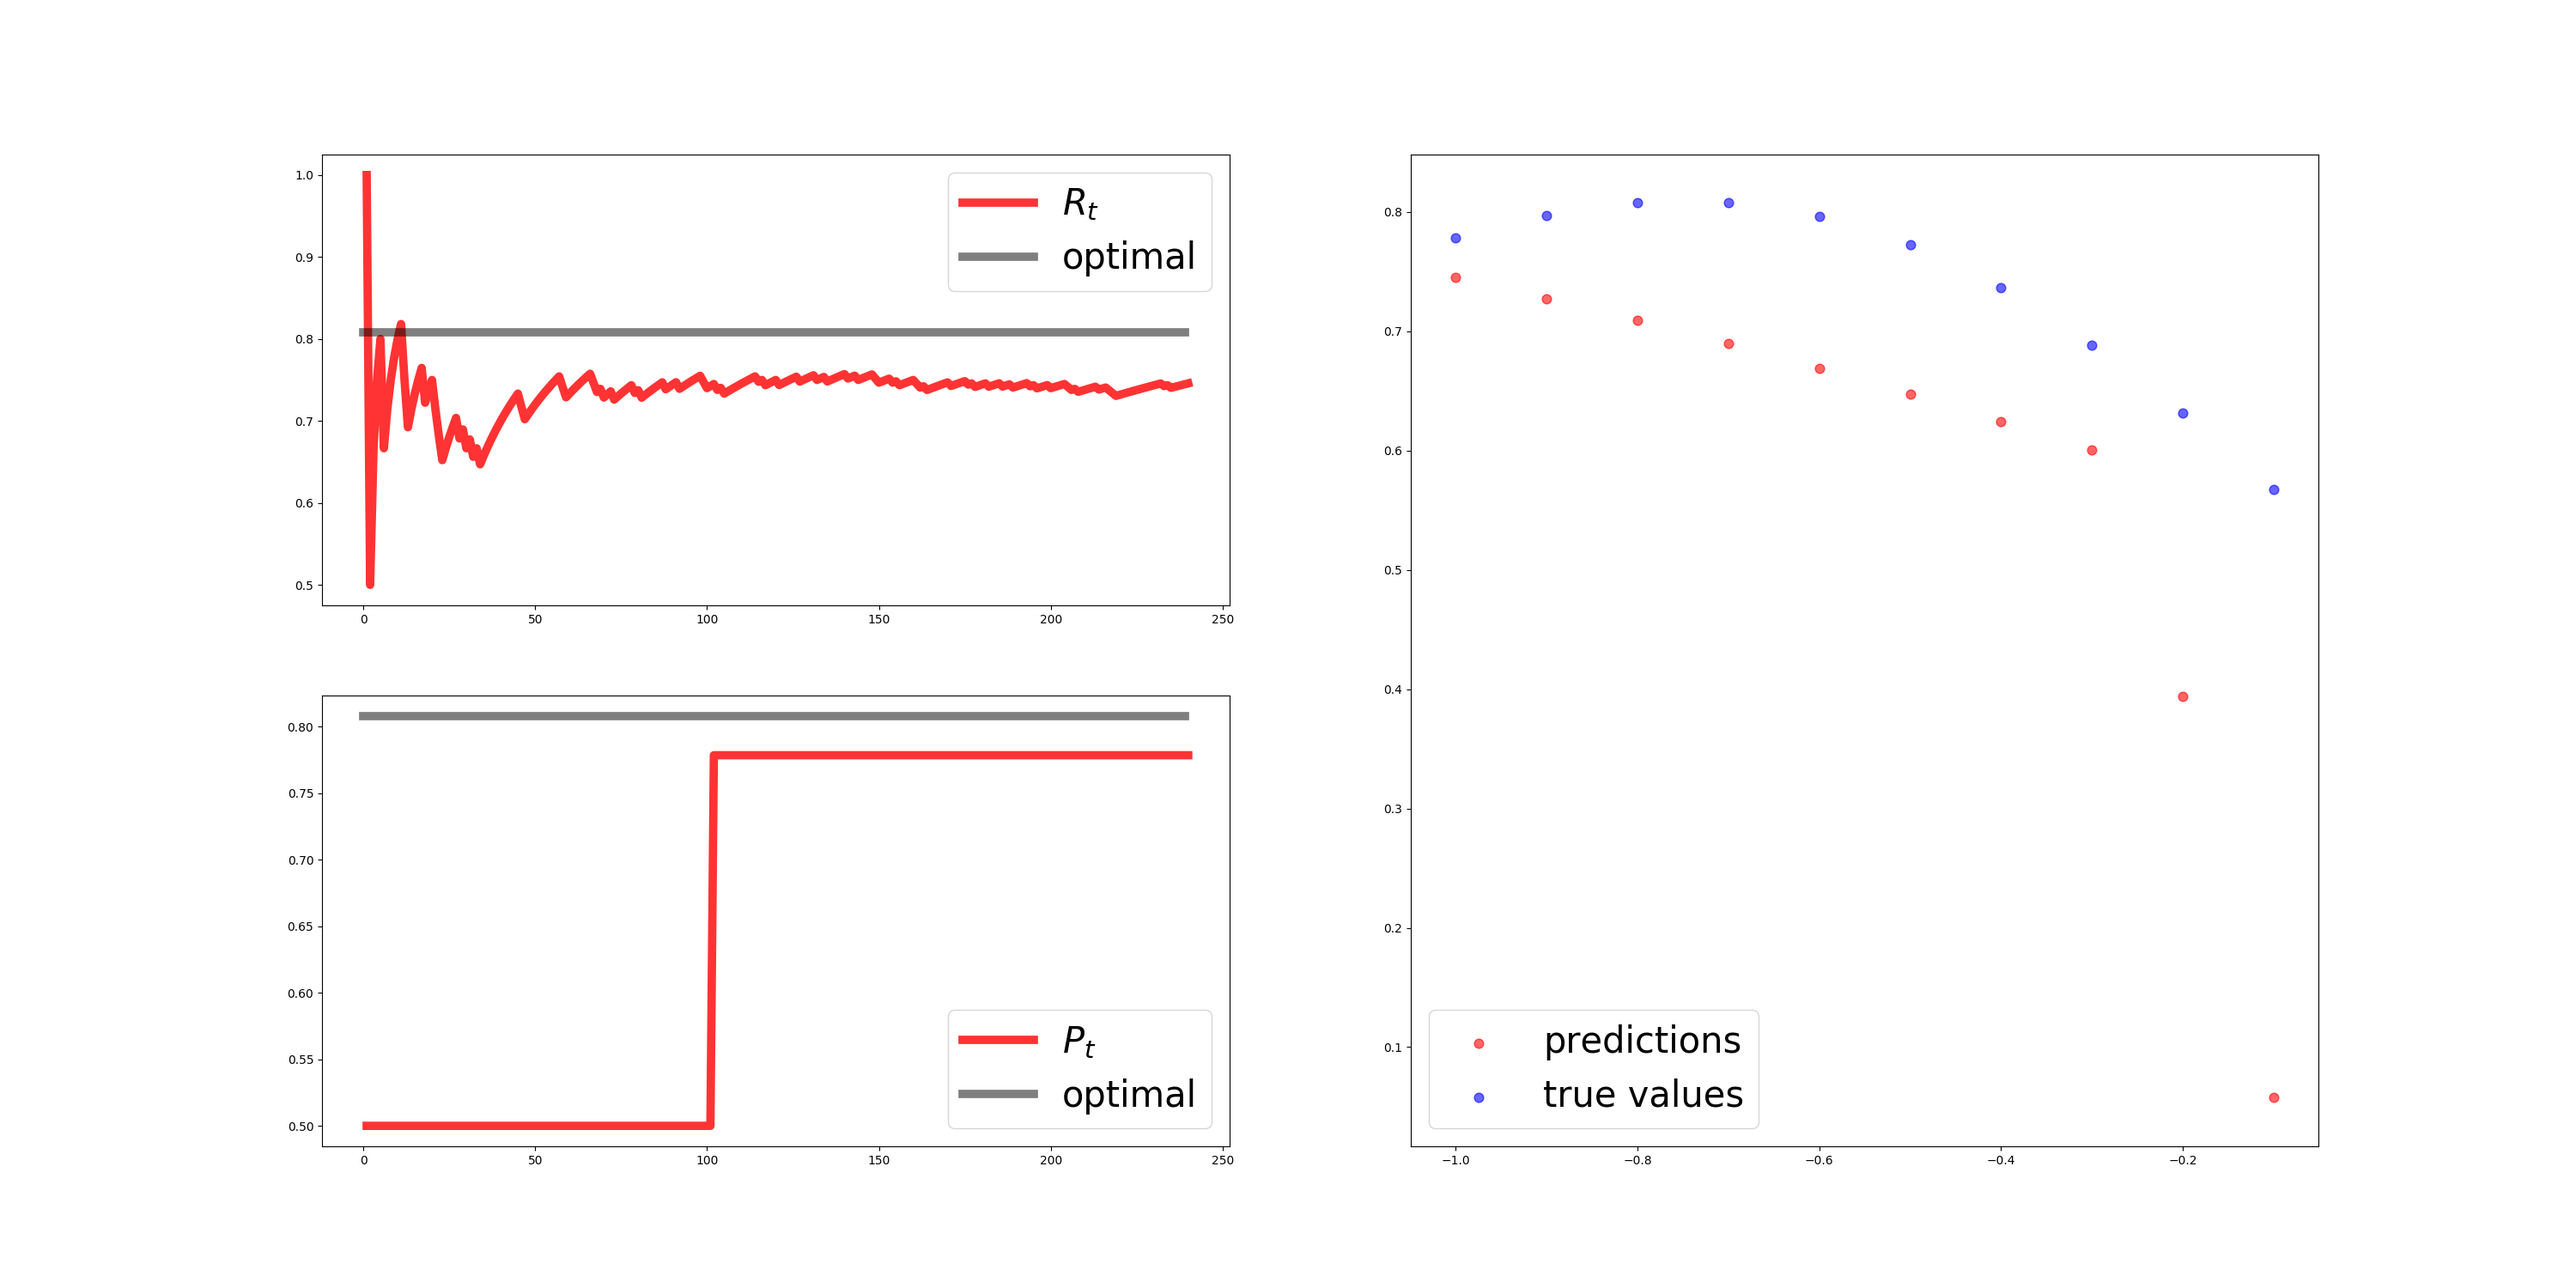
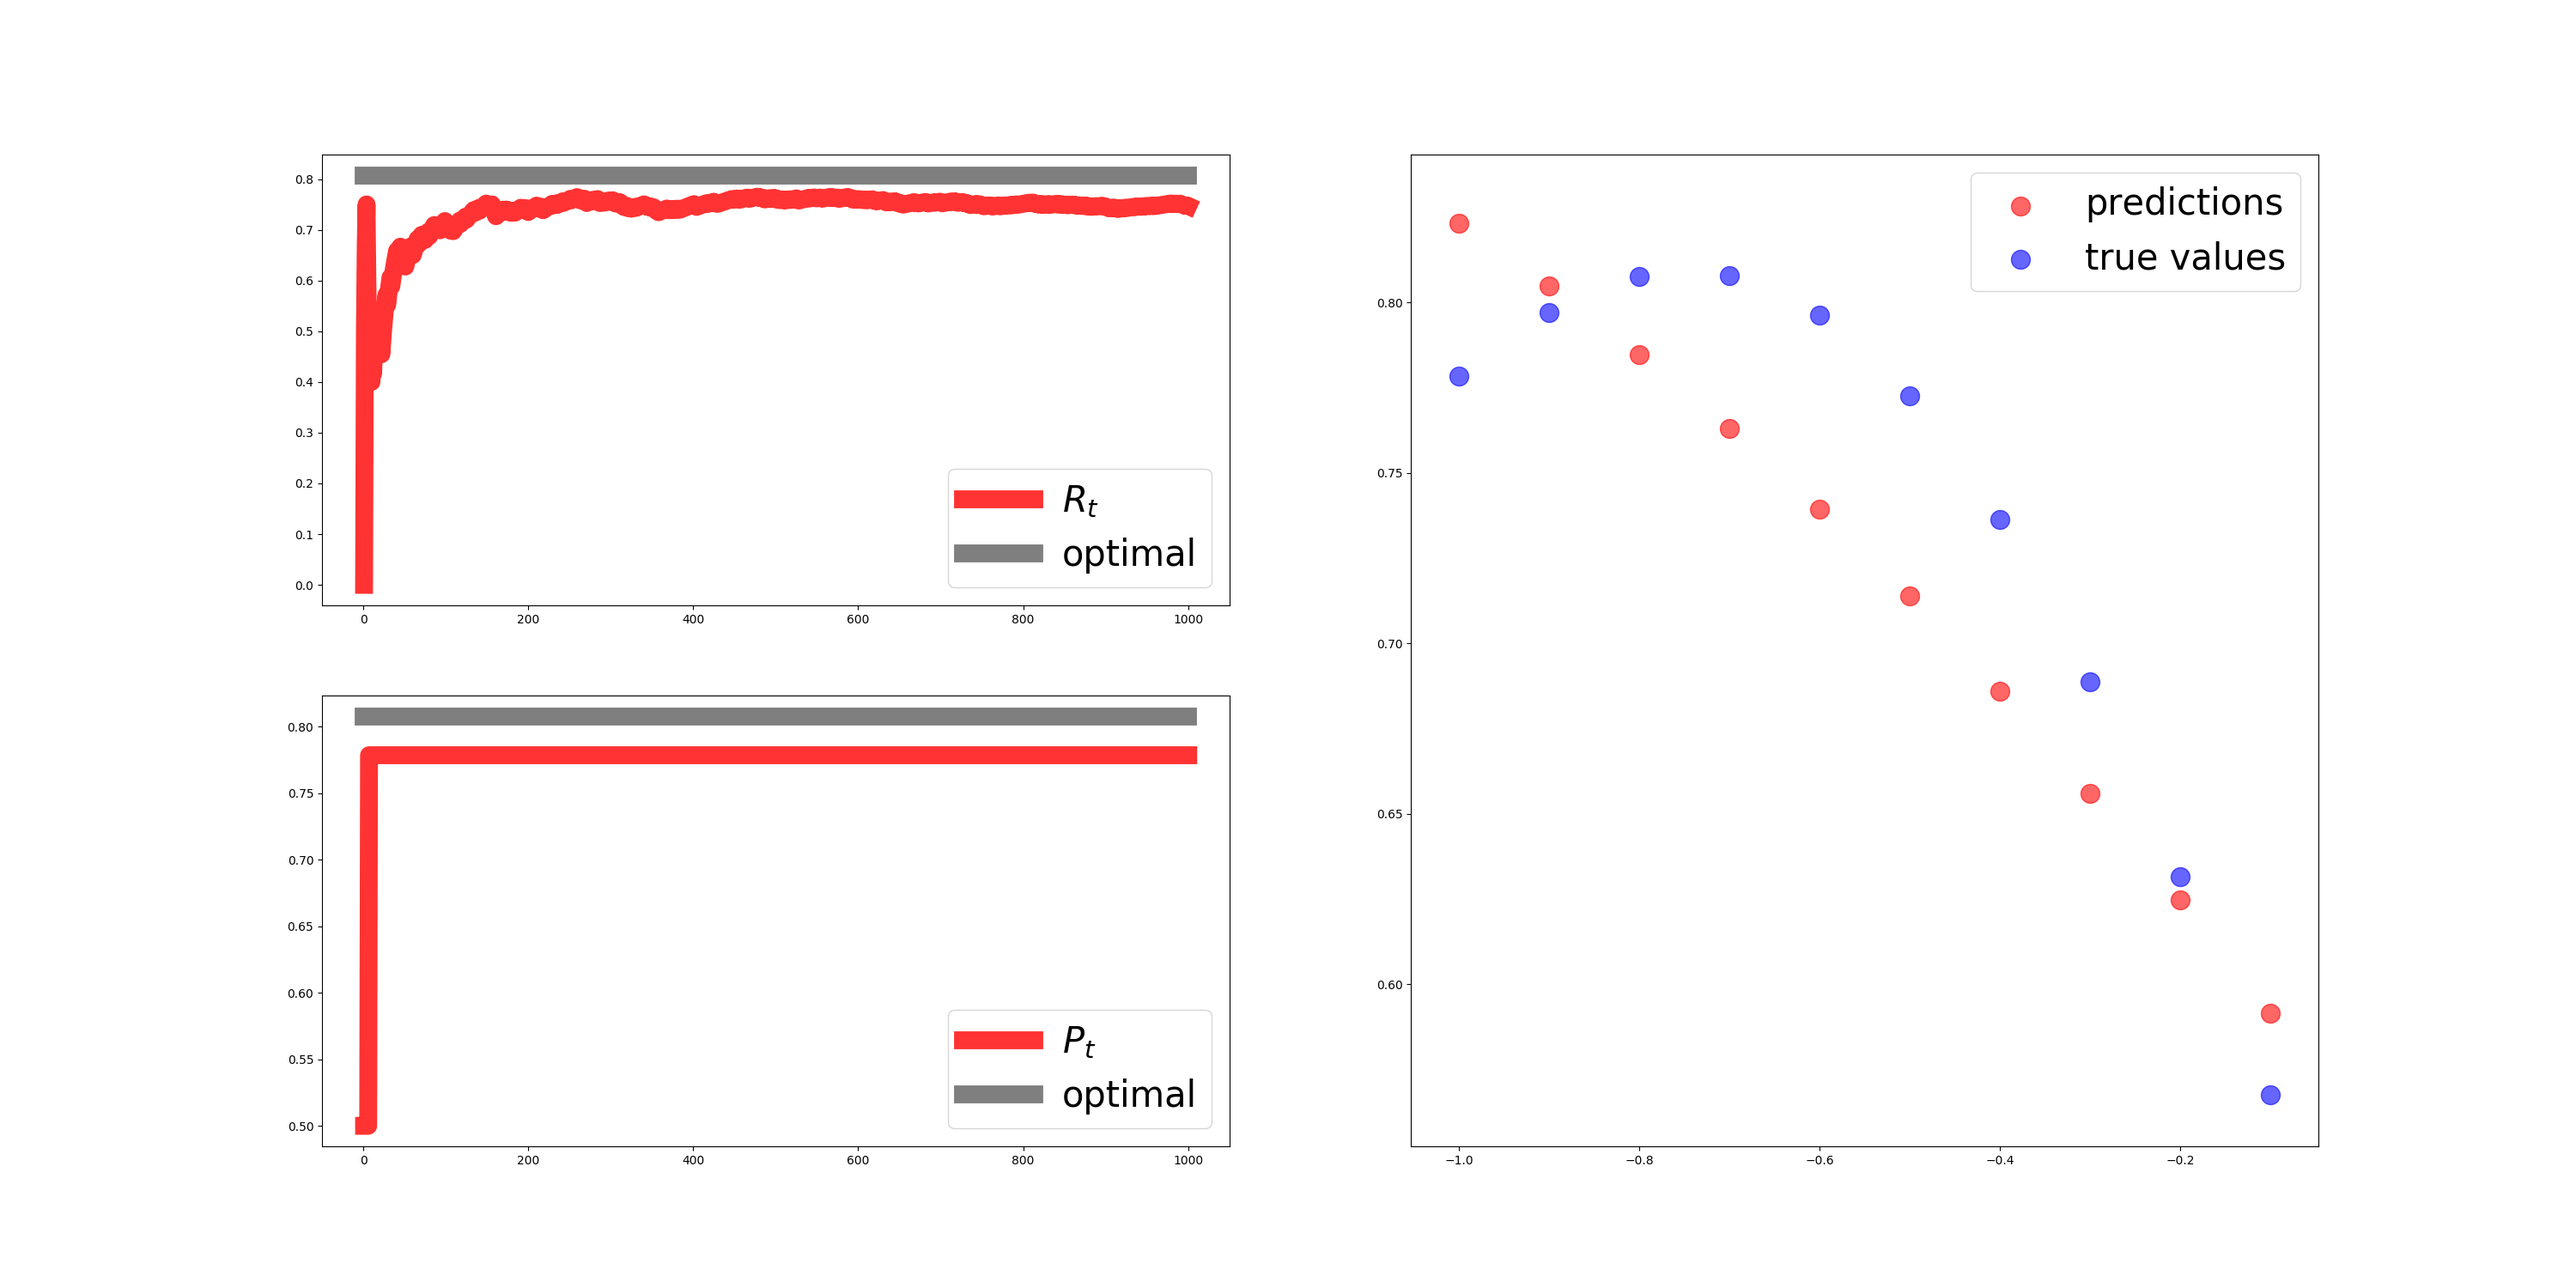
noot working

diff --git a/main.py b/main.py
@@ -12,7 +12,7 @@ import random
 
 
 def real_training(run_id, number_betas=10, lr = 10**-2,
- states_wasted=10**4, min_ep=1, batch_size=10, epochs=10):
+ states_wasted=10**3, min_ep=1, batch_size=10, epochs=10, buffer_size=10**3):
 
     q1=Q1()
     optimizer = tf.keras.optimizers.Adam(lr = lr)
@@ -24,7 +24,7 @@ def real_training(run_id, number_betas=10, lr = 10**-2,
     ntable=np.zeros(len(betas))
 
     optimal = max(ps(betas))
-    buffer = ReplayBuffer(buffer_size=states_wasted)
+    buffer = ReplayBuffer(buffer_size=buffer_size)
     for episode in tqdm(range(states_wasted)):
         ep = max(np.exp(-episode/100),min_ep)
         label, beta = greedy_action(q1, betas, ep)
@@ -33,8 +33,7 @@ def real_training(run_id, number_betas=10, lr = 10**-2,
         rt.append(reward)
         rts.append(np.sum(rt))
         buffer.add(beta, reward)
-        #
-        # pt = train_net(episode,pt, network=q1, optimizer=optimizer, buffer=buffer, epochs=1, batch_size=10)
+
         if (episode > batch_size):
             for k in range(epochs): #loop epoch
                 actions_did, rewards = buffer.sample(batch_size)
@@ -52,14 +51,12 @@ def real_training(run_id, number_betas=10, lr = 10**-2,
             pt.append(0.5)
 
 
-
-
-    rtsum = rts/np.arange(1,T+1)
+    rtsum = rts/np.arange(1,states_wasted+1)
     predictions = q1.prediction(betas)
-    plot_evolution(rt=rtsum, pr=pt, optimal=optimal, betas=betas, preds=predictions , run_id= run_id)
+    plot_evolution(rt=rtsum, pt=pt, optimal=optimal, betas=betas, preds=predictions , run_id= run_id)
 
     data = "betas: " +str(betas)+"\nBernoulli rewards!\nOptimizer: "+optimizer.__str__()+"\nBatch_size: "+str(batch_size)
-    data = data + "\nLearning rate: "+str(lr)+"\nEpsilon decaying! e^{-t/100}" + "\nBuffer size: "+str(buffer.buffer_size)+"\nMin_ep: "+str(min_ep)+"\nEpochs: "+str(epocs)
+    data = data + "\nLearning rate: "+str(lr)+"\nEpsilon decaying! e^{-t/100}" + "\nBuffer size: "+str(buffer.buffer_size)+"\nMin_ep: "+str(min_ep)+"\nEpochs: "+str(epochs)
 
     os.chdir(run_id)
     with open("info.txt", 'w') as f:
@@ -75,4 +72,25 @@ os.chdir("results")
 
 run_id=record()
 number_run = "run_"+str(run_id)
-real_training(number_run, states_wasted=2*10**4)
+
+
+# run_id, number_betas=10, lr = 10**-2,
+#  states_wasted=10**4, min_ep=1, batch_size=10, epochs=10):
+
+real_training(run_id=number_run, lr=10**-2,
+ states_wasted=10**4, min_ep=1, batch_size=5, epochs=1, buffer_size=5)
+
+
+
+
+
+
+
+
+
+
+
+
+
+
+####

diff --git a/nets.py b/nets.py
@@ -8,16 +8,16 @@ class Q1(tf.keras.Model):
     def __init__(self):
         super(Q1,self).__init__()
 
-        self.l1 = Dense(10, input_shape=(1,),kernel_regularizer=tf.keras.regularizers.l1(0.05),
-    activity_regularizer=tf.keras.regularizers.l2(0.05))
-        self.l2 = Dense(33, kernel_regularizer=tf.keras.regularizers.l1(0.05),
-    activity_regularizer=tf.keras.regularizers.l2(0.05))
-        self.l3 = Dense(10, kernel_regularizer=tf.keras.regularizers.l1(0.05),
-    activity_regularizer=tf.keras.regularizers.l2(0.05))
-        self.l4 = Dense(33, kernel_regularizer=tf.keras.regularizers.l1(0.05),
-    activity_regularizer=tf.keras.regularizers.l2(0.05))
-        self.l5 = Dense(1, kernel_regularizer=tf.keras.regularizers.l1(0.05),
-    activity_regularizer=tf.keras.regularizers.l2(0.05))
+        self.l1 = Dense(10, input_shape=(1,),kernel_regularizer=tf.keras.regularizers.l1(0.01),
+    activity_regularizer=tf.keras.regularizers.l2(0.01))
+        self.l2 = Dense(33, kernel_regularizer=tf.keras.regularizers.l1(0.01),
+    activity_regularizer=tf.keras.regularizers.l2(0.01))
+        self.l3 = Dense(10, kernel_regularizer=tf.keras.regularizers.l1(0.01),
+    activity_regularizer=tf.keras.regularizers.l2(0.01))
+        self.l4 = Dense(33, kernel_regularizer=tf.keras.regularizers.l1(0.01),
+    activity_regularizer=tf.keras.regularizers.l2(0.01))
+        self.l5 = Dense(1, kernel_regularizer=tf.keras.regularizers.l1(0.01),
+    activity_regularizer=tf.keras.regularizers.l2(0.01))
 
     def call(self, input):
         feat = tf.nn.relu(self.l1(input))
